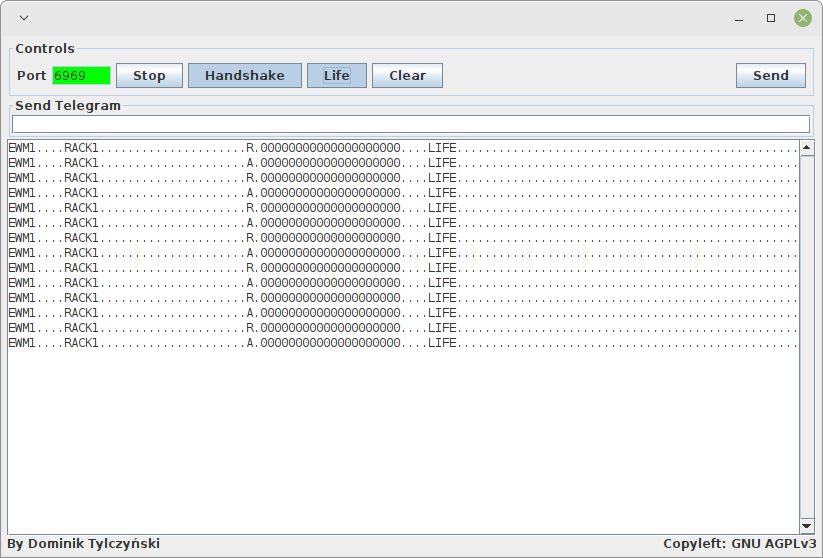
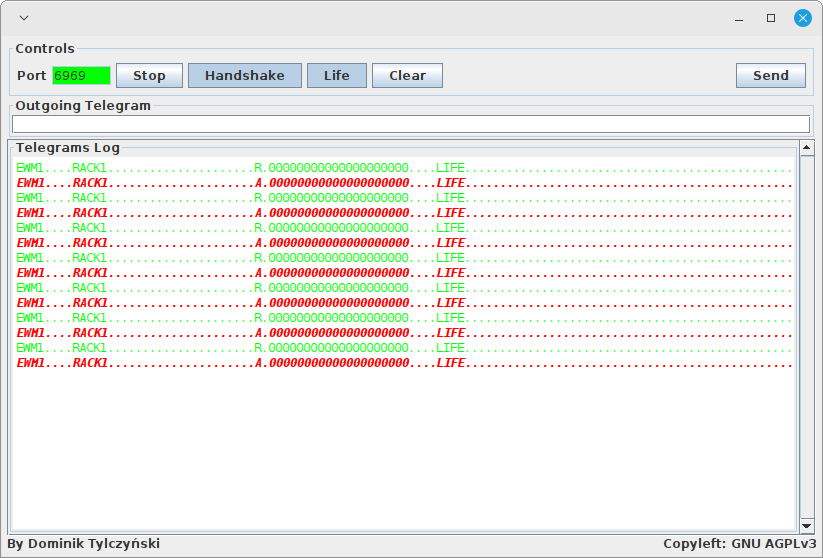
telegram log styling

Changed region(s): [[0.0, 0.2437, 0.9721, 0.6703], [0.0, 0.1828, 0.1823, 0.2133], [0.9417, 0.0, 1.0, 0.0609]]

diff --git a/src/pl/sapusers/mfsplc/sim/Sim.java b/src/pl/sapusers/mfsplc/sim/Sim.java
@@ -12,6 +12,7 @@ import java.io.FileInputStream;
 import java.io.FileNotFoundException;
 import java.io.IOException;
 import java.util.Properties;
+import java.util.Set;
 
 import javax.swing.JButton;
 import javax.swing.JFrame;
@@ -28,7 +29,10 @@ import javax.swing.border.EmptyBorder;
 import javax.swing.border.LineBorder;
 import javax.swing.border.TitledBorder;
 import javax.swing.text.BadLocationException;
-import javax.swing.text.Document;
+import javax.swing.text.Style;
+import javax.swing.text.StyleConstants;
+import javax.swing.text.StyledDocument;
+import javax.swing.text.Utilities;
 
 import org.apache.logging.log4j.LogManager;
 import org.apache.logging.log4j.Logger;
@@ -46,19 +50,74 @@ public class Sim extends JFrame {
 	private Logger logger = LogManager.getLogger(Sim.class.getName());
 
 // Configuration
+	private Properties configuration;
 	private String handshakeRequest;
 	private String handshakeConfirmation;
 	private boolean switchSenderReceiver;
 	private JCoRecordMetaData telegramMetadata;
 
 	private TcpServer server;
-	private JTextPane textArea;
+	private TelegramsLog textArea;
 	private JToggleButton tglbtnLife;
 	private JTextField textPort;
 	private JToggleButton tglAutoHandshake;
 	private JButton btnSend;
 
-	class MfsProcessor implements Runnable {
+	class TelegramsLog extends JTextPane {
+		private JCoRecordMetaData telegramMetadata;
+
+		public TelegramsLog(Properties config, JCoRecordMetaData telegramMetadata) {
+			super();
+			this.telegramMetadata = telegramMetadata;
+
+			Set<String> propertyKeys = config.stringPropertyNames();
+
+			for (String propertyKey : propertyKeys) {
+				if (propertyKey.contains("Style")) {
+					String styleName = propertyKey.substring(6);
+					String[] styleParts = config.getProperty(propertyKey).split(",");
+
+					Style style = this.addStyle(styleName, null);
+					StyleConstants.setForeground(style, new Color(Integer.parseInt(styleParts[0]),
+							Integer.parseInt(styleParts[1]), Integer.parseInt(styleParts[2])));
+
+					if (styleParts.length == 4) {
+						if (styleParts[3].contains("I"))
+							StyleConstants.setItalic(style, true);
+						if (styleParts[3].contains("B"))
+							StyleConstants.setBold(style, true);
+						if (styleParts[3].contains("U"))
+							StyleConstants.setUnderline(style, true);
+						if (styleParts[3].contains("S"))
+							StyleConstants.setStrikeThrough(style, true);
+					}
+				}
+			}
+		}
+
+		public void addTelegram(String message) {
+			JCoStructure telegram = JCo.createStructure(telegramMetadata);
+			telegram.setString(message);
+			addTelegram(telegram);
+		}
+
+		public void addTelegram(JCoStructure telegram) {
+
+			Style style;
+			style = this.getStyle(telegram.getString("TELETYPE") + "-" + telegram.getString("HANDSHAKE"));
+			if (style == null)
+				style = this.getStyle("*-" + telegram.getString("HANDSHAKE"));
+
+			StyledDocument doc = this.getStyledDocument();
+			try {
+				doc.insertString(doc.getLength(), telegram.getString() + "\n", style);
+			} catch (BadLocationException e) {
+				logger.catching(e);
+			}
+		}
+	}
+
+	class TcpIpProcessor implements Runnable {
 
 		@Override
 		public void run() {
@@ -80,14 +139,8 @@ public class Sim extends JFrame {
 					telegram.setString(message);
 
 					if (telegram.getString("TELETYPE").equals("LIFE") && tglbtnLife.isSelected()
-							|| !telegram.getString("TELETYPE").equals("LIFE")) {
-						Document doc = textArea.getDocument();
-						try {
-							doc.insertString(doc.getLength(), message + "\n", null);
-						} catch (BadLocationException e) {
-							logger.catching(e);
-						}
-					}
+							|| !telegram.getString("TELETYPE").equals("LIFE"))
+						textArea.addTelegram(telegram);
 
 					// send acknowledge telegram if needed
 					if (telegram.getString("HANDSHAKE").equals(handshakeRequest) && tglAutoHandshake.isSelected()) {
@@ -101,14 +154,9 @@ public class Sim extends JFrame {
 						server.sendMessage(response.getString());
 
 						if (response.getString("TELETYPE").equals("LIFE") && tglbtnLife.isSelected()
-								|| !response.getString("TELETYPE").equals("LIFE")) {
-							Document doc = textArea.getDocument();
-							try {
-								doc.insertString(doc.getLength(), response.getString() + "\n", null);
-							} catch (BadLocationException e) {
-								logger.catching(e);
-							}
-						}
+								|| !response.getString("TELETYPE").equals("LIFE"))
+							textArea.addTelegram(response);
+
 					}
 				}
 			}
@@ -125,10 +173,10 @@ public class Sim extends JFrame {
 
 	private void loadConfiguration(String destination, String configProperties) {
 		// Load configuration from properties file
-		Properties config = new Properties();
+		configuration = new Properties();
 		logger.debug("Loading properites file: " + configProperties);
 		try (FileInputStream propertiesFile = new FileInputStream(configProperties)) {
-			config.load(propertiesFile);
+			configuration.load(propertiesFile);
 		} catch (FileNotFoundException e) {
 			logger.catching(e);
 		} catch (IOException e) {
@@ -136,21 +184,21 @@ public class Sim extends JFrame {
 		}
 
 		// Get handshake request and confirmation strings
-		handshakeRequest = config.getProperty("handshakeRequest");
+		handshakeRequest = configuration.getProperty("handshakeRequest");
 		if (handshakeRequest == null || handshakeRequest.equals(""))
 			logger.error("Handshake request not defined in the config file: " + configProperties);
 
-		handshakeConfirmation = config.getProperty("handshakeConfirmation");
+		handshakeConfirmation = configuration.getProperty("handshakeConfirmation");
 		if (handshakeConfirmation == null || handshakeConfirmation.equals(""))
 			logger.error("Handshake confirmation not defined in the config file: " + configProperties);
 
 		// Get sender / receiver switch setting
-		switchSenderReceiver = Boolean.parseBoolean(config.getProperty("switchSenderReceiver"));
+		switchSenderReceiver = Boolean.parseBoolean(configuration.getProperty("switchSenderReceiver"));
 
 		// Get JCo metadata of telegram structure
 		try {
 			telegramMetadata = JCoDestinationManager.getDestination(destination).getRepository()
-					.getStructureDefinition(config.getProperty("telegramStructure"));
+					.getStructureDefinition(configuration.getProperty("telegramStructure"));
 		} catch (JCoException e) {
 			logger.throwing(e);
 		}
@@ -169,8 +217,7 @@ public class Sim extends JFrame {
 		EventQueue.invokeLater(new Runnable() {
 			public void run() {
 				try {
-					Sim frame = new Sim();
-					frame.loadConfiguration(args[0], args[1]);
+					Sim frame = new Sim(args[0], args[1]);
 					frame.setVisible(true);
 				} catch (Exception e) {
 					e.printStackTrace();
@@ -182,7 +229,9 @@ public class Sim extends JFrame {
 	/**
 	 * Create the frame.
 	 */
-	public Sim() {
+	public Sim(String destination, String configProperties) {
+		loadConfiguration(destination, configProperties);
+
 		setDefaultCloseOperation(JFrame.EXIT_ON_CLOSE);
 		setBounds(100, 100, 823, 558);
 		JPanel contentPanel = new JPanel();
@@ -222,10 +271,31 @@ public class Sim extends JFrame {
 		scrollPane.setViewportBorder(
 				new TitledBorder(null, "Telegrams Log", TitledBorder.LEADING, TitledBorder.TOP, null, null));
 		scrollPane.setVerticalScrollBarPolicy(ScrollPaneConstants.VERTICAL_SCROLLBAR_ALWAYS);
-		scrollPane.setHorizontalScrollBarPolicy(ScrollPaneConstants.HORIZONTAL_SCROLLBAR_NEVER);
+		scrollPane.setHorizontalScrollBarPolicy(ScrollPaneConstants.HORIZONTAL_SCROLLBAR_ALWAYS);
 		TelegramPanel.add(scrollPane, BorderLayout.CENTER);
 
-		textArea = new JTextPane();
+		textArea = new TelegramsLog(configuration, telegramMetadata);
+		textArea.addMouseListener(new MouseAdapter() {
+			@Override
+			public void mouseClicked(MouseEvent e) {
+				if (e.getClickCount() == 2) {
+					try {
+						int line = textArea.getCaretPosition();
+						int start = Utilities.getRowStart(textArea, line);
+						int end = Utilities.getRowEnd(textArea, line);
+
+						String text = textArea.getDocument().getText(start, end - start);
+						if (!text.equals("")) {
+							JCoStructure telegram = JCo.createStructure(telegramMetadata);
+							telegram.setString(text);
+							new TelegramDialog(telegram.getRecordFieldIterator(), true, "Line: " + (line + 1));
+						}
+					} catch (BadLocationException exc) {
+						logger.catching(exc);
+					}
+				}
+			}
+		});
 		textArea.setEditable(false);
 		textArea.setFont(new Font("Monospaced", Font.PLAIN, 12));
 		scrollPane.setViewportView(textArea);
@@ -274,7 +344,7 @@ public class Sim extends JFrame {
 
 					try {
 						server = new TcpServer(Integer.parseUnsignedInt(textPort.getText()));
-						Thread thread = new Thread(new MfsProcessor());
+						Thread thread = new Thread(new TcpIpProcessor());
 						thread.setName("Telegram processor " + thread.getName());
 						thread.start();
 						textPort.setEditable(false);
@@ -307,14 +377,7 @@ public class Sim extends JFrame {
 			public void actionPerformed(ActionEvent e) {
 				if (!textTelegram.getText().equals("")) {
 					server.sendMessage(textTelegram.getText());
-
-					Document doc = textArea.getDocument();
-					try {
-						doc.insertString(doc.getLength(), textTelegram.getText() + "\n", null);
-					} catch (BadLocationException exc) {
-						logger.catching(exc);
-					}
-
+					textArea.addTelegram(textTelegram.getText());
 					textTelegram.setText("");
 				}
 			}
